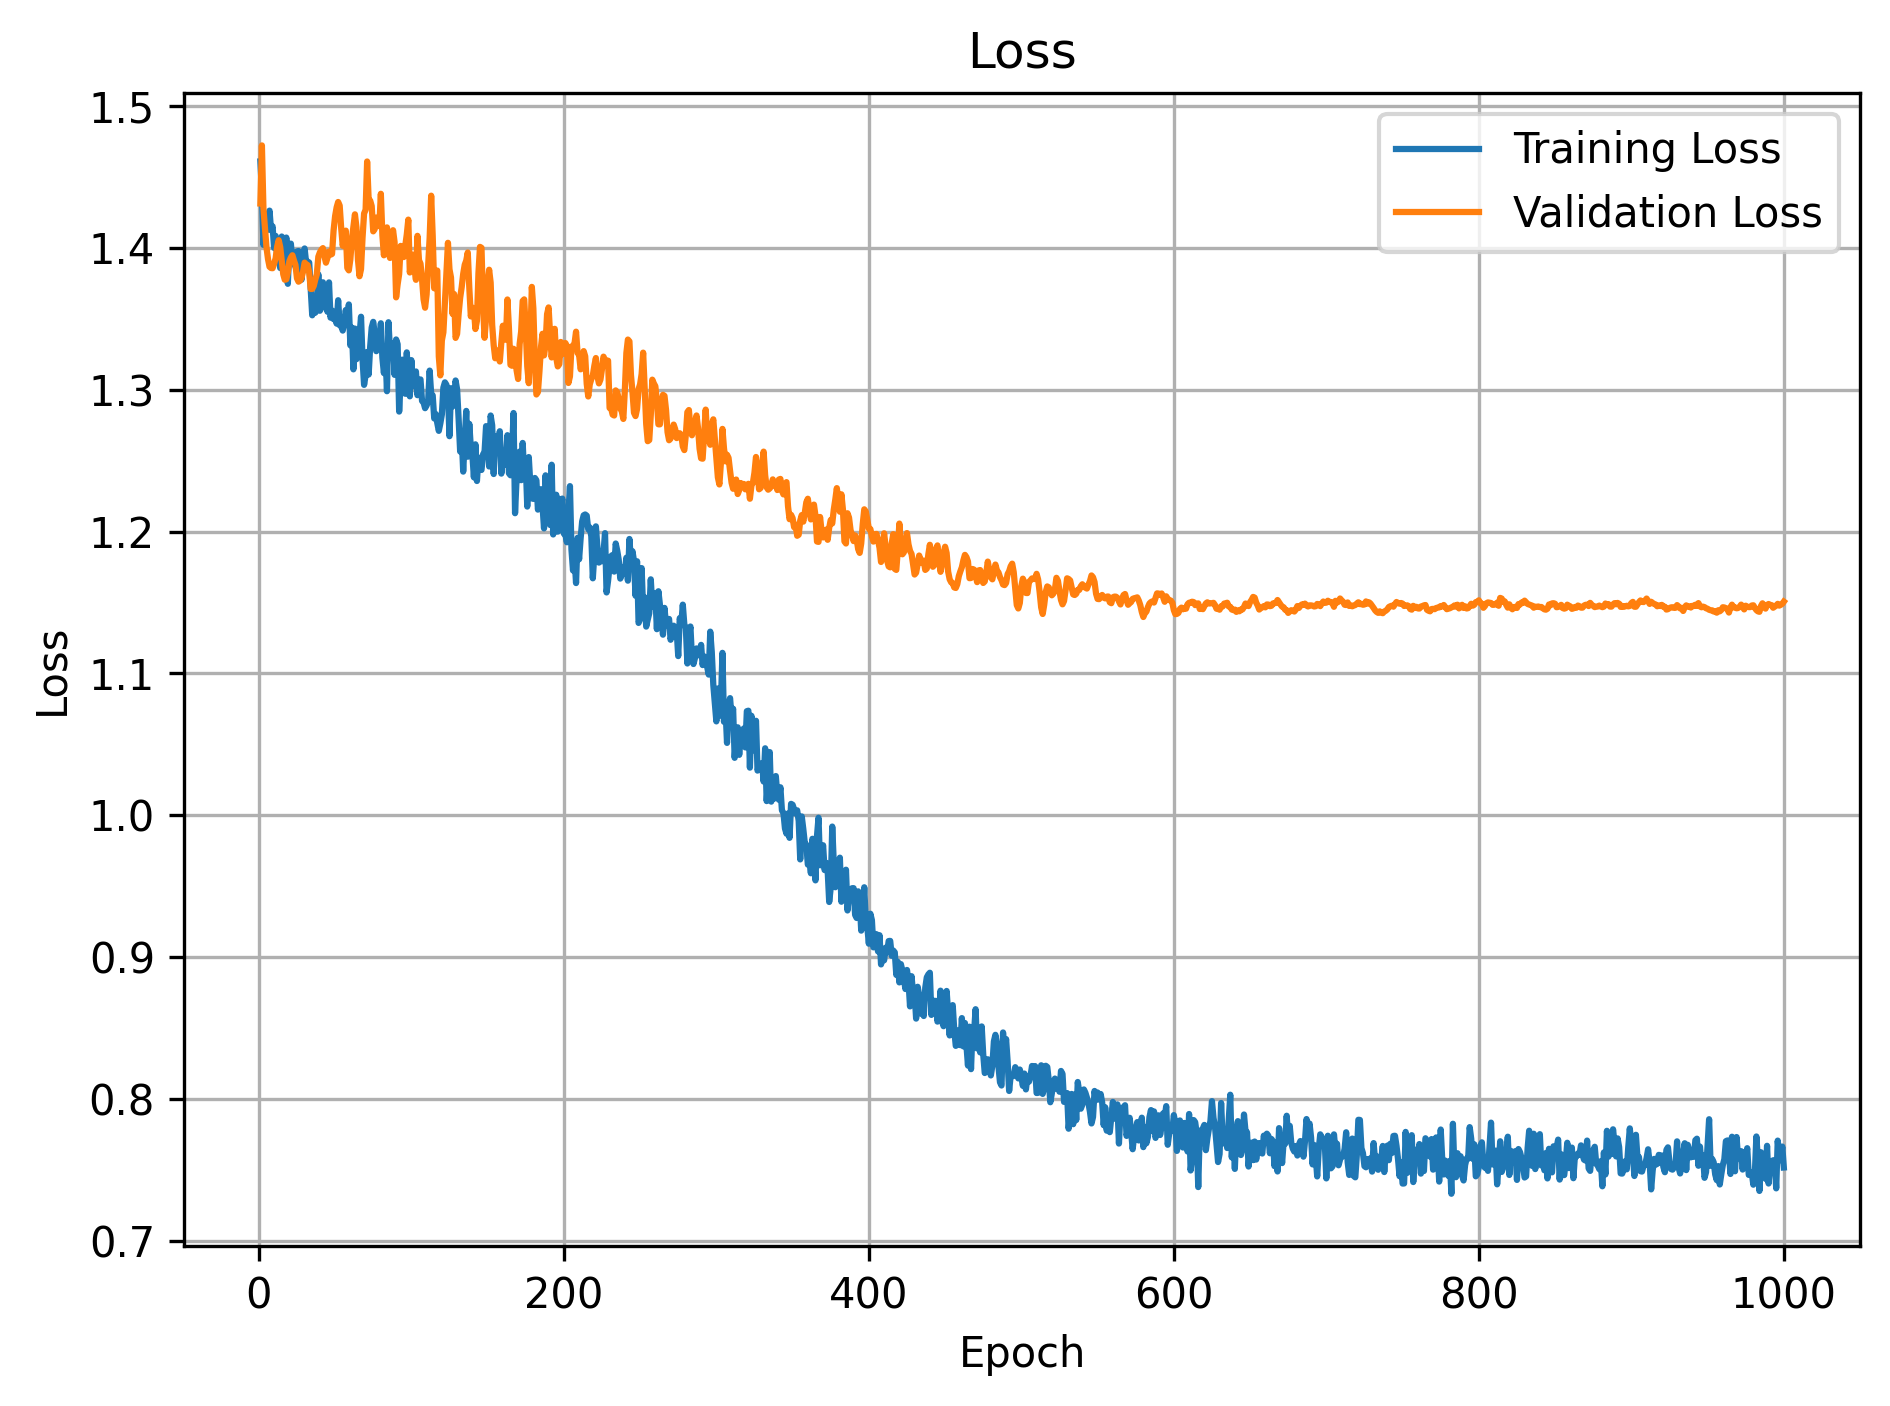
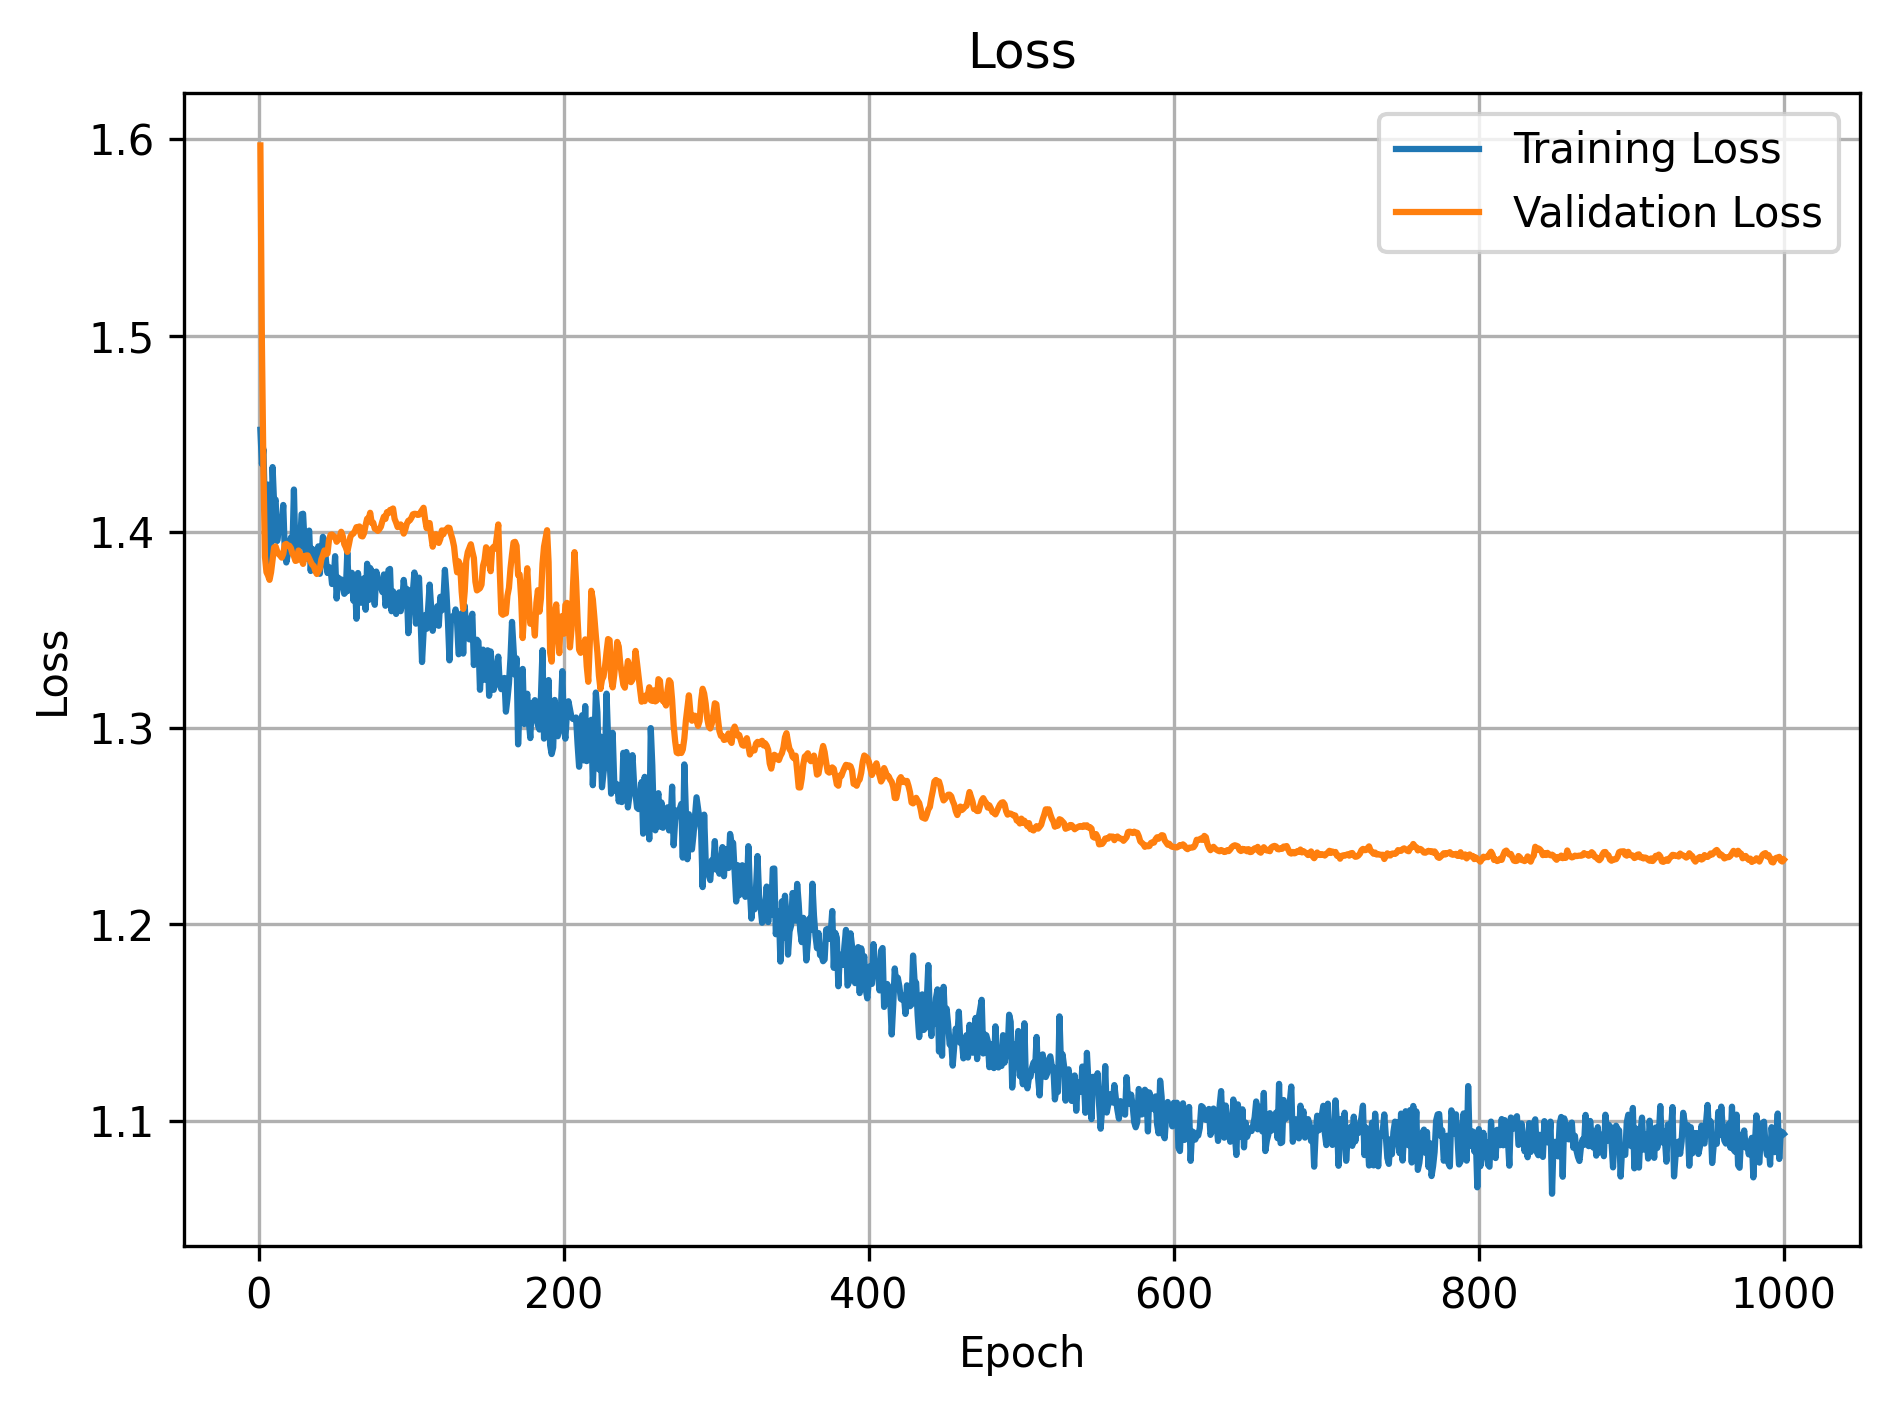
more dropout

diff --git a/EEG-classification/the_ml/bigmodel.py b/EEG-classification/the_ml/bigmodel.py
@@ -8,11 +8,11 @@ def model(x_example, hyperparameters):
 
     return nn.Sequential(
         nn.BatchNorm2d(num_channels),
-        ConvLayer(num_channels, num_channels*4, 0.4, 5),
-        ConvLayer(num_channels*4, num_channels*2, 0.4, 5),
-        ConvLayer(num_channels*2, num_channels, 0.4, 5),
+        ConvLayer(num_channels, num_channels*4, 0.5, 5),
+        ConvLayer(num_channels*4, num_channels*2, 0.5, 5),
+        ConvLayer(num_channels*2, num_channels, 0.5, 5),
         nn.Flatten(),
-        LinearLayer(num_channels*h*w, 128, 0.7),
+        LinearLayer(num_channels*h*w, 128, 0.8),
         nn.Linear(128, 4)
     )
 
